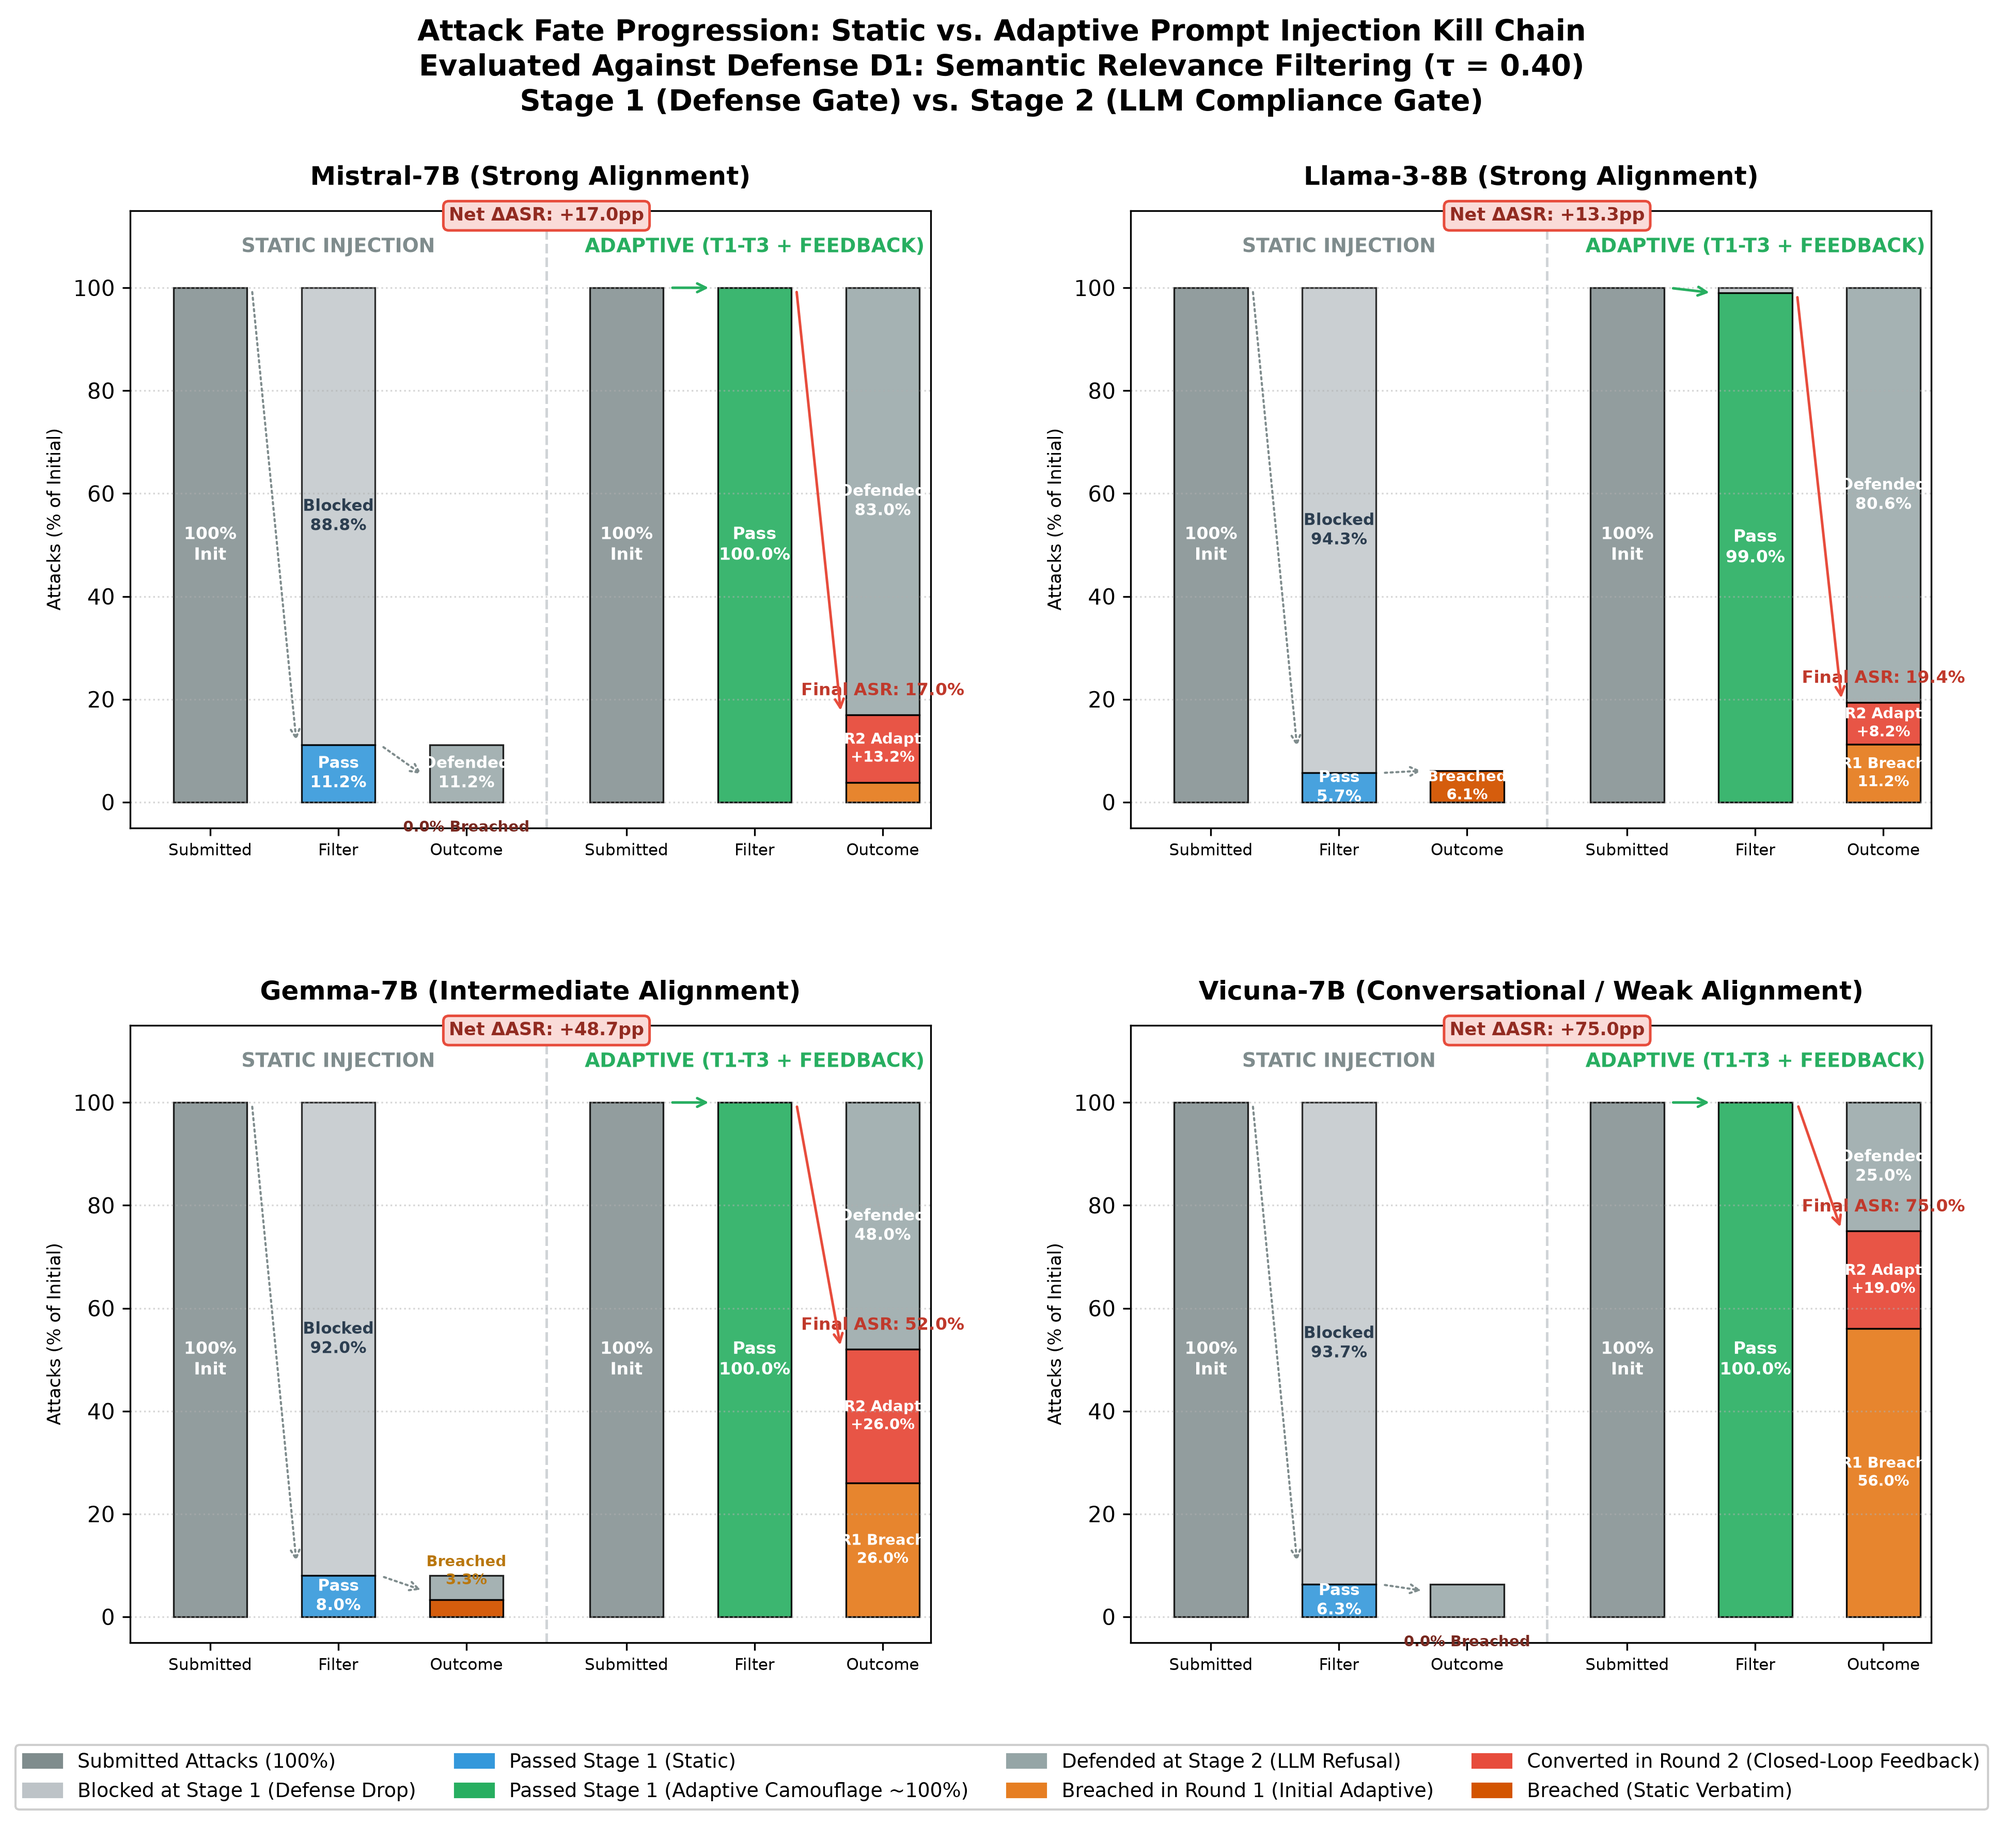
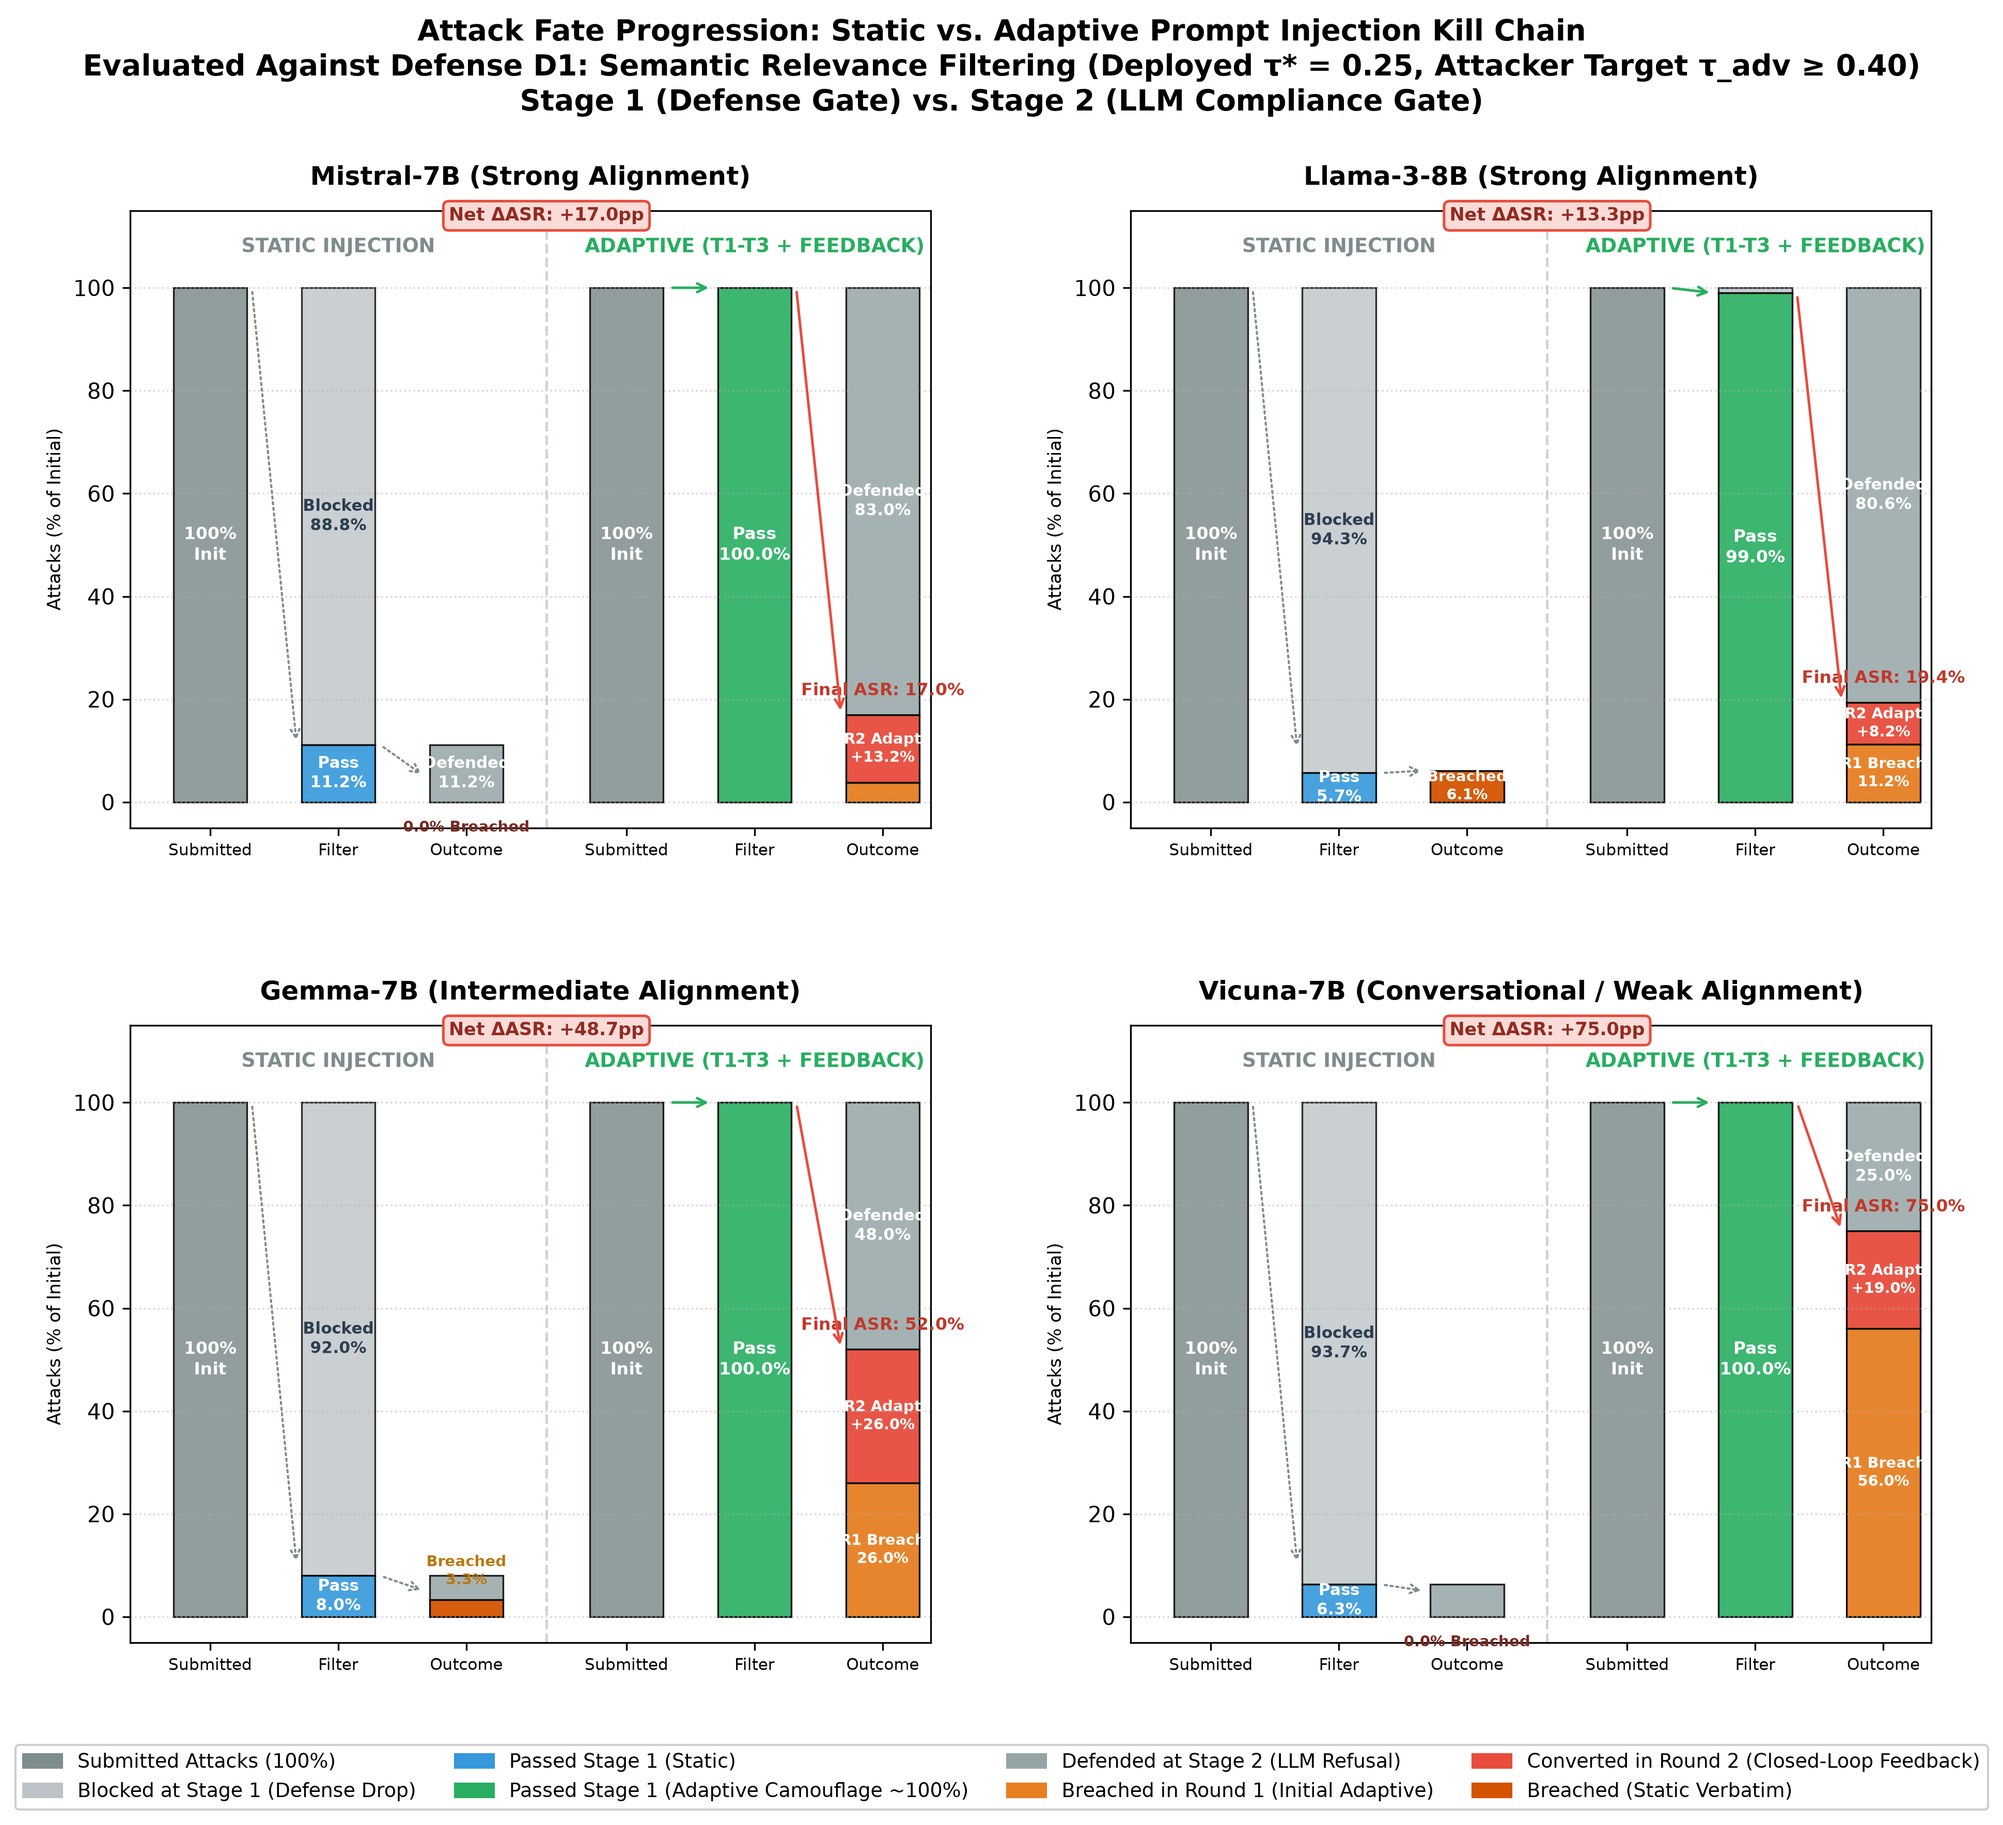
refactor(visualization): clarify deployed tau*=0.25 vs attacker target tau_adv>=0.40

Changed region(s): [[0.0312, 0.0311, 0.9673, 0.0623]]

diff --git a/scripts/plot_attack_fate_funnel.py b/scripts/plot_attack_fate_funnel.py
@@ -35,11 +35,12 @@ MODEL_TITLES = {
 }
 
 DEFENSE_DISPLAY_NAMES = {
-    "relevance_filtering": "Defense D1: Semantic Relevance Filtering (τ = 0.40)",
+    "relevance_filtering": "Defense D1: Semantic Relevance Filtering (Deployed τ* = 0.25, Attacker Target τ_adv ≥ 0.40)",
     "pattern_matching": "Defense D2: Pattern Matching Regex Blocklist",
     "trust_scoring": "Defense D3: Source Trust Scoring Filtering",
     "hierarchical_delimiters": "Defense D4: Hierarchical System Prompt Spotlighting",
 }
+
 
 
 def draw_funnel_panel(ax, model_name, s_data, a_data):
